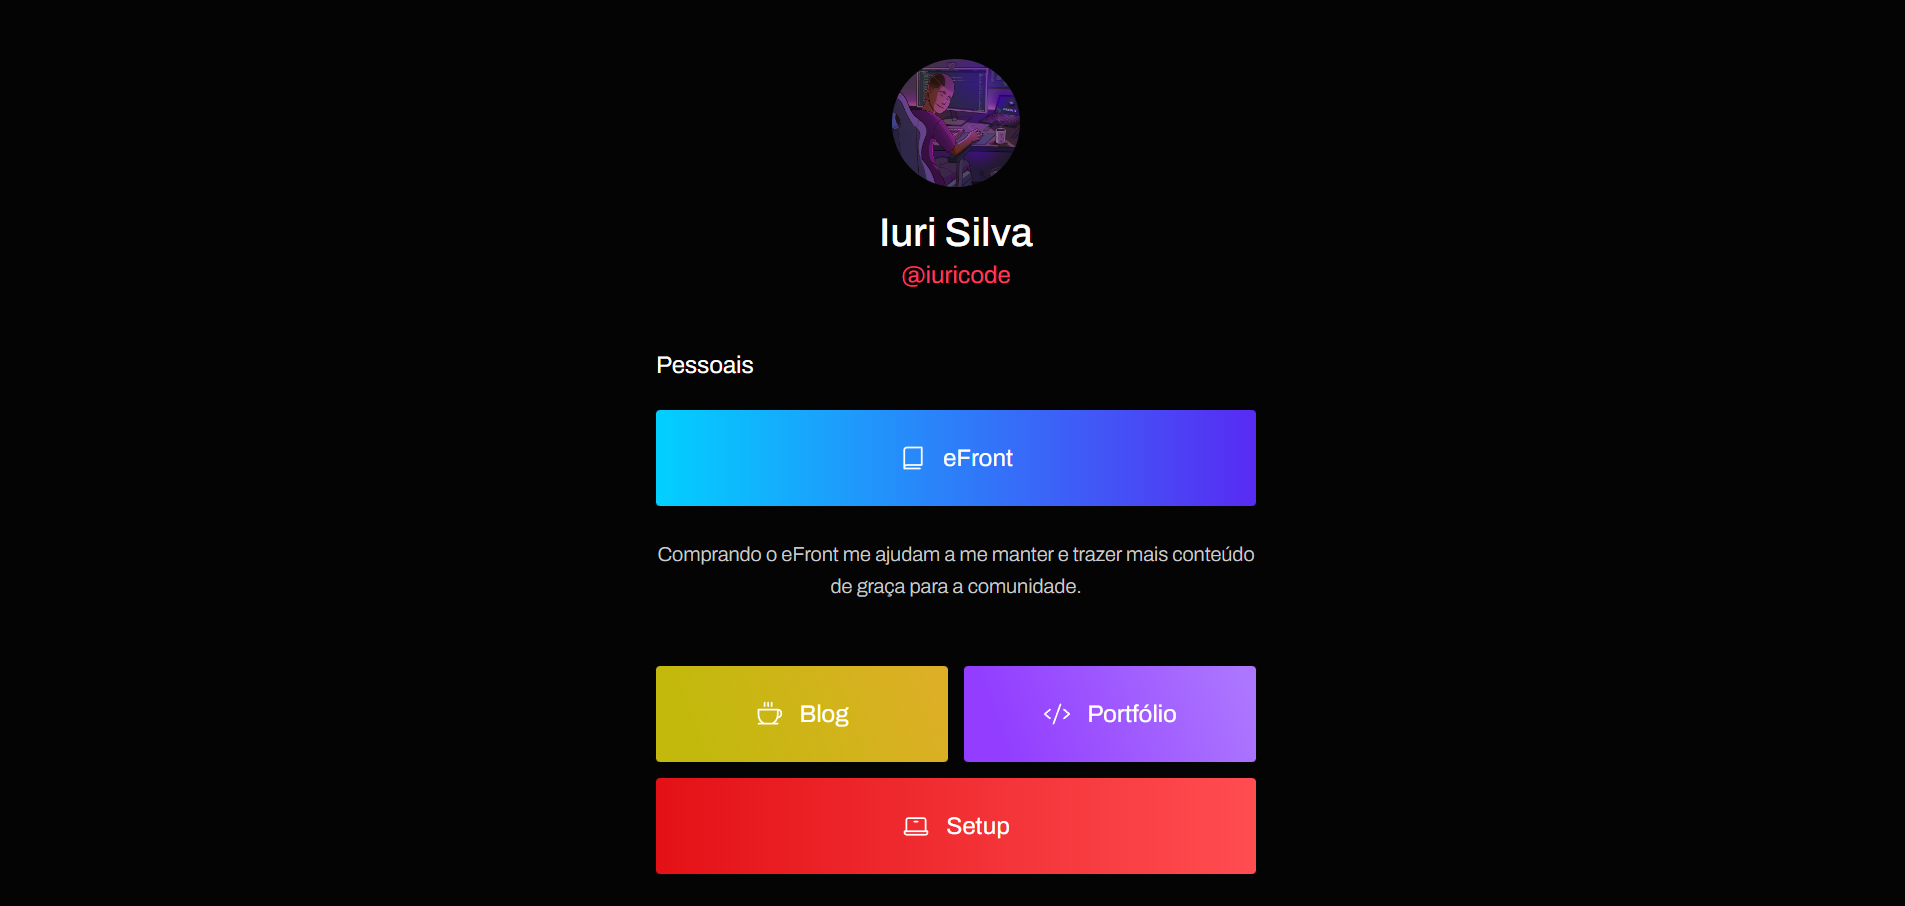
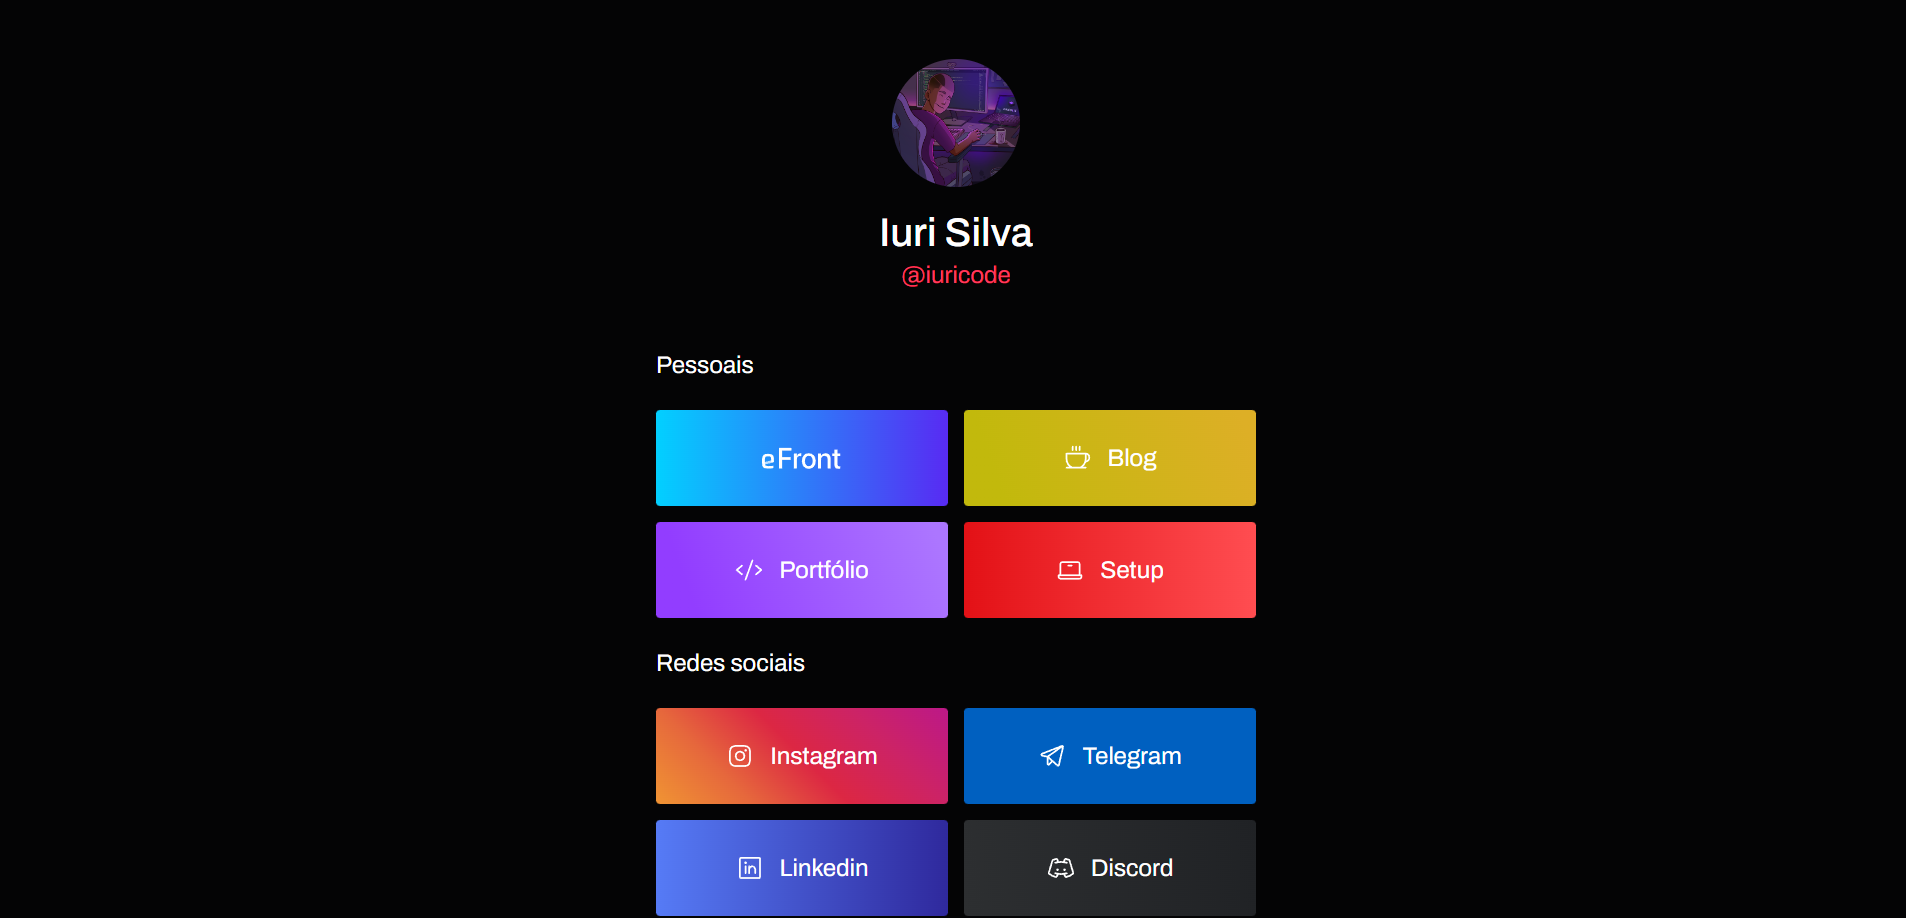
adicionando foto do efront

Changed region(s): [[0.3407, 0.7108, 0.6814, 1.0], [0.3407, 0.3709, 0.6814, 0.6799], [0.4646, 0.0618, 0.5575, 0.3091]]

diff --git a/assets/css/style.css b/assets/css/style.css
@@ -1,1 +1,1 @@
-*{padding:0;margin:0;box-sizing:border-box;font-family:"Archivo"}::selection{background-color:#ff3a5e;color:#fff}ul,ol{list-style:none;margin:0;padding:0}a{text-decoration:none}img{max-width:100%;height:auto;display:block}p,h1,h2,h3,h4,h5,h6{margin:0}button,input{border:0;font-family:"Archivo"}button:focus,input:focus{border:0}body{font-family:"Archivo";background-color:#040405;padding:64px 24px;color:#fff}html{scroll-behavior:smooth;font-size:62.5%}::-webkit-scrollbar{width:8px}::-webkit-scrollbar-track{background-color:#17161d}::-webkit-scrollbar-thumb{background-color:#ff3a5e;border-radius:8px}header{display:flex;justify-content:center;align-items:center;flex-direction:column;margin-bottom:64px}header img{height:128px;width:128px;border-radius:50%;margin-bottom:24px;transition:.2s}header img:hover{outline:4px solid #fff}header h1{font-size:4rem;font-weight:500}header p{margin-top:8px;font-size:2.4rem;color:#ff3a5e;font-weight:400}section{max-width:600px;margin:32px auto}section h2{font-size:2.4rem;font-weight:400}section div{display:flex;justify-content:center;align-items:center;flex-wrap:wrap;margin:32px auto;gap:16px}section div p{font-size:2rem;text-align:center;line-height:160%;color:#ccc;margin:16px 0px 48px 0px;font-weight:300}section div a{flex-basis:200px;flex-grow:1}@media screen and (max-width: 768px){section div a{flex-basis:600px}}section div article{min-height:96px;display:flex;justify-content:center;align-items:center;padding:8px;border-radius:4px}section div article:hover img{width:32px}section div article img{width:28px;margin-right:16px;transition:.4s}section div article #parceria{width:88px}section div article h2{text-align:center;font-size:2.4rem;font-weight:400;color:#fff}/*# sourceMappingURL=style.css.map */
+*{padding:0;margin:0;box-sizing:border-box;font-family:"Archivo"}::selection{background-color:#ff3a5e;color:#fff}ul,ol{list-style:none;margin:0;padding:0}a{text-decoration:none}img{max-width:100%;height:auto;display:block}p,h1,h2,h3,h4,h5,h6{margin:0}button,input{border:0;font-family:"Archivo"}button:focus,input:focus{border:0}body{font-family:"Archivo";background-color:#040405;padding:64px 24px;color:#fff}html{scroll-behavior:smooth;font-size:62.5%}::-webkit-scrollbar{width:8px}::-webkit-scrollbar-track{background-color:#17161d}::-webkit-scrollbar-thumb{background-color:#ff3a5e;border-radius:8px}header{display:flex;justify-content:center;align-items:center;flex-direction:column;margin-bottom:64px}header img{height:128px;width:128px;border-radius:50%;margin-bottom:24px;transition:.2s}header img:hover{outline:4px solid #fff}header h1{font-size:4rem;font-weight:500}header p{margin-top:8px;font-size:2.4rem;color:#ff3a5e;font-weight:400}section{max-width:600px;margin:32px auto}section h2{font-size:2.4rem;font-weight:400}section div{display:flex;justify-content:center;align-items:center;flex-wrap:wrap;margin:32px auto;gap:16px}section div p{font-size:2rem;text-align:center;line-height:160%;color:#ccc;margin:16px 0px 48px 0px;font-weight:300}section div a{flex-basis:200px;flex-grow:1}@media screen and (max-width: 768px){section div a{flex-basis:600px}}section div article{display:flex;justify-content:center;align-items:center;min-height:96px;padding:8px;border-radius:4px}section div article:hover img{width:32px}section div article:hover #efront{width:88px}section div article img{width:28px;margin-right:16px;transition:.4s}section div article #efront{width:80px;margin-right:0}section div article h2{text-align:center;font-size:2.4rem;font-weight:400;color:#fff}/*# sourceMappingURL=style.css.map */

diff --git a/index.html b/index.html
@@ -51,29 +51,27 @@
       <section>
         <h2>Pessoais</h2>
         <div>
-          <a
-            href="https://iuricode.com/efront/"
-            rel="noopener"
-            target="_blank"
-          >
+          <a href="https://iuricode.com/efront/" rel="noopener" target="_blank">
             <article
               style="
                 background: linear-gradient(90deg, #02d0ff 0%, #582bf3 100%);
               "
             >
               <img
-                src="assets/icons/book.svg"
-                alt="ícone livros"
-                width="28px"
-                height="28px"
+                src="assets/icons/efront.svg"
+                alt="ícone efront"
+                width="20px"
+                height="20px"
+                id="efront"
               />
-              <h2>eFront</h2>
             </article>
           </a>
 
-          <p>Comprando o eFront me ajudam a me manter e trazer mais conteúdo de graça para a comunidade.</p>
-
-          <a href="https://iuricode-blog.vercel.app/" rel="noopener" target="_blank">
+          <a
+            href="https://iuricode-blog.vercel.app/"
+            rel="noopener"
+            target="_blank"
+          >
             <article
               style="
                 background: linear-gradient(70deg, #c2b90c 13%, #ddaf26 95%);
@@ -81,7 +79,7 @@
             >
               <img
                 src="assets/icons/coffee.svg"
-                alt="ícone feliz"
+                alt="ícone café"
                 width="28px"
                 height="28px"
               />
@@ -232,7 +230,11 @@
             </article>
           </a>
 
-          <a href="https://www.behance.net/iuricode" rel="noopener" target="_blank">
+          <a
+            href="https://www.behance.net/iuricode"
+            rel="noopener"
+            target="_blank"
+          >
             <article
               style="
                 background: linear-gradient(58deg, #1f9b29 8%, #39b475 98%);

diff --git a/assets/scss/_card.scss b/assets/scss/_card.scss
@@ -31,21 +31,29 @@ section {
     }
 
     article {
-      min-height: $gap-8;
       @include flexbox-center();
+      min-height: $gap-8;
       padding: $gap-1;
       border-radius: 4px;
       &:hover img {
         width: 32px;
       }
+
+      &:hover #efront {
+        width: 88px;
+      }
+
       img {
         width: 28px;
         margin-right: $gap-2;
         transition: 0.4s;
       }
-      #parceria {
-        width: 88px;
+
+      #efront {
+        width: 80px;
+        margin-right: 0;
       }
+
       h2 {
         text-align: center;
         font-size: 2.4rem;

diff --git a/assets/scss/_profile.scss b/assets/scss/_profile.scss
@@ -13,10 +13,12 @@ header {
       outline: 4px solid $color-white;
     }
   }
+
   h1 {
     font-size: 4rem;
     font-weight: 500;
   }
+  
   p {
     margin-top: $gap-1;
     font-size: 2.4rem;

diff --git a/README.md b/README.md
@@ -6,7 +6,7 @@
 
 <h4 align="center"><a href="https://www.iuricode.com/bio/">Clique para visitar o projeto</a></h4>
 
-<p align="center">Inspirado na Bio da <a href="https://www.instagram.com/girl.coding/">girl.coding</a></p>
+<p align="center">Inspirado na nio da <a href="https://www.instagram.com/girl.coding/">girl.coding</a></p>
 
 ---
 
